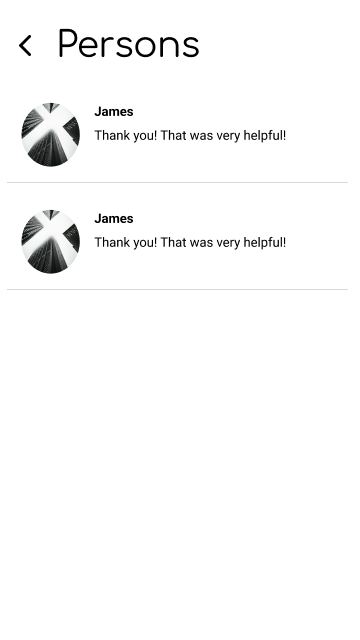
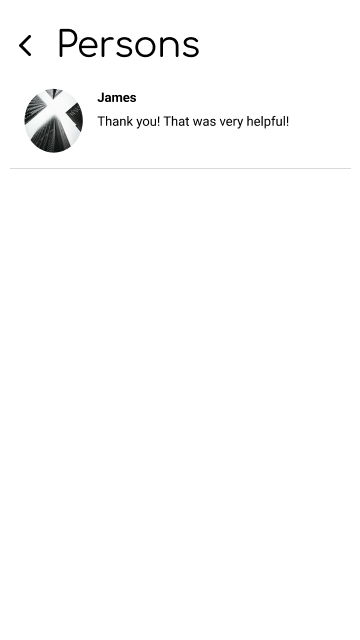
Auto-generated commit by Parabeac Cloud

Changed region(s): [[0.0611, 0.125, 0.7944, 0.2812], [0.0611, 0.3125, 0.7944, 0.4375]]

diff --git a/lib/widgets/list_page/chat_list_item.g.dart b/lib/widgets/list_page/chat_list_item.g.dart
@@ -8,15 +8,8 @@ import 'package:flutter/material.dart';
 import 'package:auto_size_text/auto_size_text.dart';
 
 class ChatListItem extends StatefulWidget {
-  final Widget? ovrEllipse;
-  final String? ovrThankyouThatwasveryhelpful;
-  final String? ovrJames;
-
   const ChatListItem({
     Key? key,
-    this.ovrEllipse,
-    this.ovrThankyouThatwasveryhelpful,
-    this.ovrJames,
   }) : super(key: key);
 
   @override
@@ -56,14 +49,13 @@ class _ChatListItem extends State<ChatListItem> {
                   width: 58.197,
                   top: 15.917,
                   height: 63.668,
-                  child: widget.ovrEllipse ??
-                      Image.asset(
-                        'assets/images/ellipse.png',
-                        package: 'parabeac_test',
-                        height: 63.66839599609375,
-                        width: 58.19733428955078,
-                        fit: BoxFit.none,
-                      ),
+                  child: Image.asset(
+                    'assets/images/ellipse.png',
+                    package: 'parabeac_test',
+                    height: 63.66839599609375,
+                    width: 58.19733428955078,
+                    fit: BoxFit.none,
+                  ),
                 ),
                 Positioned(
                   left: 0,
@@ -87,8 +79,7 @@ class _ChatListItem extends State<ChatListItem> {
                       height: 35.8134765625,
                       width: 239.1546630859375,
                       child: AutoSizeText(
-                        widget.ovrThankyouThatwasveryhelpful ??
-                            'Thank you! That was very helpful!',
+                        'Thank you! That was very helpful!',
                         style: TextStyle(
                           fontFamily: 'Roboto',
                           fontSize: 13,
@@ -108,7 +99,7 @@ class _ChatListItem extends State<ChatListItem> {
                       height: 17.90673828125,
                       width: 239.1546630859375,
                       child: AutoSizeText(
-                        widget.ovrJames ?? 'James',
+                        'James',
                         style: TextStyle(
                           fontFamily: 'Roboto',
                           fontSize: 13,

diff --git a/lib/views/list_page/list_page.g.dart b/lib/views/list_page/list_page.g.dart
@@ -6,6 +6,7 @@
 
 import 'package:flutter/material.dart';
 import 'package:auto_size_text/auto_size_text.dart';
+import 'package:parabeac_test/widgets/list_page/custom/back_arrow_custom.dart';
 import 'package:flutter_svg/flutter_svg.dart';
 import 'package:parabeac_test/widgets/list_page/chat_list_item.g.dart';
 
@@ -27,28 +28,11 @@ class _ListPage extends State<ListPage> {
       color: Colors.white,
       child: Stack(children: [
         Positioned(
-          left: 7.0,
+          left: 10.0,
           width: 341.0,
-          top: 87.0,
+          top: 73.0,
           height: 96.0,
           child: ChatListItem(),
-        ),
-        Positioned(
-          left: 7.0,
-          width: 341.0,
-          top: 194.0,
-          height: 96.0,
-          child: ChatListItem(
-            ovrEllipse: Image.asset(
-              'assets/images/ellipse.png',
-              package: 'parabeac_test',
-              height: MediaQuery.of(context).size.height * 0.099481862783432,
-              width: MediaQuery.of(context).size.width * 0.16165926191541885,
-              fit: BoxFit.fill,
-            ),
-            ovrThankyouThatwasveryhelpful: 'Thank you! That was very helpful!',
-            ovrJames: 'James',
-          ),
         ),
         Positioned(
           left: 56.0,
@@ -85,13 +69,14 @@ class _ListPage extends State<ListPage> {
           width: 12.0,
           top: 35.0,
           height: 21.0,
-          child: SvgPicture.asset(
-            'assets/images/backarrow.svg',
+          child: BackArrowCustom(
+              child: SvgPicture.asset(
+            'assets/images/backarrowcustom.svg',
             package: 'parabeac_test',
             height: 21.0,
             width: 12.0,
             fit: BoxFit.none,
-          ),
+          )),
         ),
       ]),
     );

diff --git a/lib/views/home_page/home_page.g.dart b/lib/views/home_page/home_page.g.dart
@@ -44,11 +44,11 @@ class _HomePage extends State<HomePage> {
         ),
         Positioned(
           left: MediaQuery.of(context).size.width * 0.092,
-          width: MediaQuery.of(context).size.width * 0.814,
-          top: 283.0,
+          width: MediaQuery.of(context).size.width * 0.817,
+          top: 269.0,
           height: 51.0,
           child: Center(
-              child: Container(height: 51.0, width: 293.0, child: AddPerson())),
+              child: Container(height: 51.0, width: 294.0, child: AddPerson())),
         ),
         Positioned(
           left: MediaQuery.of(context).size.width * 0.092,
@@ -59,10 +59,7 @@ class _HomePage extends State<HomePage> {
               child: Container(
                   height: 51.0,
                   width: 294.0,
-                  child: ShowPersonsCustom(
-                      child: AddPerson(
-                    ovrADDPerson: 'Show Persons',
-                  )))),
+                  child: ShowPersonsCustom(child: AddPerson()))),
         ),
       ]),
     );

diff --git a/lib/widgets/home_page/add_person.g.dart b/lib/widgets/home_page/add_person.g.dart
@@ -9,11 +9,8 @@ import 'package:parabeac_test/widgets/home_page/custom/add_person_custom.dart';
 import 'package:auto_size_text/auto_size_text.dart';
 
 class AddPerson extends StatefulWidget {
-  final String? ovrADDPerson;
-
   const AddPerson({
     Key? key,
-    this.ovrADDPerson,
   }) : super(key: key);
 
   @override
@@ -54,7 +51,7 @@ class _AddPerson extends State<AddPerson> {
                   height: 15.0,
                   width: 85.0,
                   child: AutoSizeText(
-                    widget.ovrADDPerson ?? 'ADD Person',
+                    'Add Person',
                     style: TextStyle(
                       fontFamily: 'Roboto',
                       fontSize: 13,

diff --git a/lib/widgets/list_page/custom/back_arrow_custom.dart b/lib/widgets/list_page/custom/back_arrow_custom.dart
@@ -1,0 +1,19 @@
+import 'package:flutter/material.dart';
+
+class BackArrowCustom extends StatefulWidget {
+  final Widget? child;
+  BackArrowCustom({
+    Key? key,
+    this.child,
+  }) : super(key: key);
+
+  @override
+  _BackArrowCustomState createState() => _BackArrowCustomState();
+}
+
+class _BackArrowCustomState extends State<BackArrowCustom> {
+  @override
+  Widget build(BuildContext context) {
+    return widget.child!;
+  }
+}

diff --git a/lib/views/form_page/form_page.g.dart b/lib/views/form_page/form_page.g.dart
@@ -93,10 +93,7 @@ class _FormPage extends State<FormPage> {
           right: 33.0,
           top: 557.0,
           height: 51.0,
-          child: AddPersonCustom(
-              child: AddPerson(
-            ovrADDPerson: 'ADD Person',
-          )),
+          child: AddPersonCustom(child: AddPerson()),
         ),
         Positioned(
           left: 19.0,

diff --git a/lib/widgets/form_page/first_name.g.dart b/lib/widgets/form_page/first_name.g.dart
@@ -9,11 +9,8 @@ import 'package:parabeac_test/widgets/form_page/custom/first_name_logic.dart';
 import 'package:parabeac_test/widgets/form_page/first_name_widget.g.dart';
 
 class FirstName extends StatefulWidget {
-  final String? ovrFirstname;
-
   const FirstName({
     Key? key,
-    this.ovrFirstname,
   }) : super(key: key);
 
   @override
